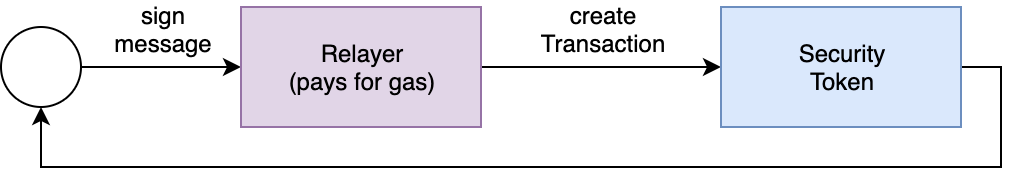
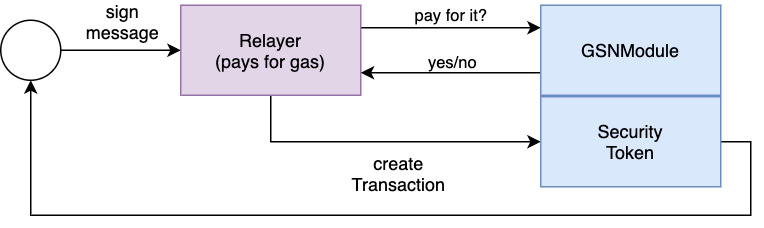
update README

diff --git a/README.md b/README.md
@@ -91,19 +91,51 @@ Use the deploy script to deploy all contracts on local testnet (localhost:8454):
 #
 ## Architecture
 
-![architecture](./resources/security_token.png "Architecture")
+![architecture](resources/security_token.png "Architecture")
 
 #
 
 
 
-#### Constrainable.sol
+## Constrainable
 
 Constraint Modules can be set to implement any kind of on-chain checks.
 
-#
-#### Administrable.sol
+![roles](resources/modular-constraints.png "Roles")
 
+
+These are constraints modules that already exist, but you can write your own,  
+as long as the implement the `IConstraintModule.sol` interface!
+
+I.e., the off-chain validation module checks for the signature of an offline validator in the transactions extra data.
+
+
+#
+## Administrable.sol
+
+Roles can be **added** and **removed** by the `ADMIN`
+
+This is and overview of roles that can be used.  
+**Additional roles can always be added after deployment!** (i.e. for new constraint modules)
+
+![roles](resources/CommonRoles.png "Roles")
+
+#
+## Cap
+
+There is 1 overall cap for the whole token (`_cap`)
+
+It is set during deployment in the constructor.
+
+Get cap with `cap()`  
+
+When `CAP_EDITOR`, use `setCap(uint256 newCap)` to set to new value.  
+The new cap must always be greater than the old one!
+
+--> SecurityTokenPartitions return overall cap with their `cap()` function.
+
+When using `issueByPartition` or `bulkIssueByPartition`,  
+the issued value must not exceed `_cap`
 
 
 #
@@ -112,11 +144,17 @@ Constraint Modules can be set to implement any kind of on-chain checks.
 TODO
 
 #  
-#### Diagrams
+## Free Transactions
 
-All diagrams were made with the free software [draw.io](draw.io)  
-Simply open the corresponding XML file in the editor and export into JPEG to update any diagram.
+**Gas Station Network (GSN)**
 
+![gsn](resources/gsn.png "GSN")
+
+Using a relayer, you can pay for the transactions of your token users.
+
+The GSN Module can be configured even after the token is deployed.
+
+GSN can also be turned off completely!
 
 
 #
@@ -143,3 +181,8 @@ Operators can transfer tokens on behalf of users that authorized them to do so u
 Users can authorize addresses to transfer tokens on their behalf on a "by partition"-basis.  
 This authorization can be revoked at any time.
 
+
+#
+#### Diagrams
+All diagrams were made with the free software [draw.io](draw.io)  
+Simply open the corresponding XML file in the editor and export into JPEG to update any diagram.
